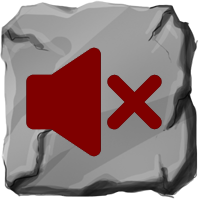
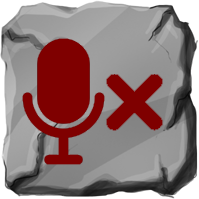
Fixes + new micro images

diff --git a/Assets/Scripts/UI/SinglePlayerUI.cs b/Assets/Scripts/UI/SinglePlayerUI.cs
@@ -1,5 +1,6 @@
 using System;
 using System.Linq;
+using DG.Tweening;
 using FishNet;
 using FishNet.Managing;
 using FishNet.Managing.Scened;
@@ -73,11 +74,16 @@ public class SinglePlayerUI : MonoBehaviour
         _multipassTransport.StartConnection(true, 0);
     }
 
+    public void OpenMenu()
+    {
+        transform.DOScale(1f, 0.2f).SetEase(Ease.Linear);
+        gameAdObject.transform.DOScale(0f, 0.2f).SetEase(Ease.Linear);
+    }
     
     private void CloseMenu()
     {
         gameObject.SetActive(false);
-        gameAdObject.SetActive(true);
+        gameAdObject.transform.DOScale(1f, 0.2f).SetEase(Ease.Linear);
         authenticate.SetActive(true);
         editName.SetActive(true);
     }

diff --git a/Assets/Scripts/Lobby/CharacterWindowUI.cs b/Assets/Scripts/Lobby/CharacterWindowUI.cs
@@ -65,12 +65,6 @@ public class CharacterWindowUI : MonoBehaviour
         _closeButton.onClick.AddListener(CloseWindow);
     }
 
-    private void OnEnable()
-    {
-        GetPlayerBalance();
-        UpdateUI();
-    }
-
     private void Start()
     {
         CloseWindow();
@@ -78,6 +72,8 @@ public class CharacterWindowUI : MonoBehaviour
 
     public void OpenWindow()
     {
+        GetPlayerBalance();
+        UpdateUI();
         gameObject.transform.DOScale(1f, 0.2f).SetEase(Ease.Linear);
         _charactersContent.gameObject.SetActive(true);
         multiplayerSettingsButton.SetActive(false);

diff --git a/Assets/Scripts/UI/Settings.cs b/Assets/Scripts/UI/Settings.cs
@@ -20,8 +20,8 @@ public class Settings : MonoBehaviour
 
     private void Start()
     {
-        cameraSensitivity.value = PlayerPrefs.HasKey("Sensitivity") ? PlayerPrefs.GetFloat("Sensitivity") : 0.14f;
-        sensitivitySliderValue.text = $"{Math.Round(cameraSensitivity.value,2) * 100}%";
+        cameraSensitivity.value = PlayerPrefs.HasKey("Sensitivity") ? PlayerPrefs.GetFloat("Sensitivity") / 100 : 0.05f;
+        sensitivitySliderValue.text = $"{Math.Round(PlayerPrefs.GetFloat("Sensitivity"),2)}%";
     }
 
     public static event Action<float> OnSensetivityChange;

diff --git a/Assets/Scripts/Lobby/AuthenticateUI.cs b/Assets/Scripts/Lobby/AuthenticateUI.cs
@@ -21,7 +21,7 @@ public class AuthenticateUI : MonoBehaviour
 
     private void SinglePlayer()
     {
-        SinglePlayerUI.Instance.gameObject.transform.DOScale(1f, 0.2f).SetEase(Ease.Linear);
+        SinglePlayerUI.Instance.OpenMenu();
         Hide();
     }
 
